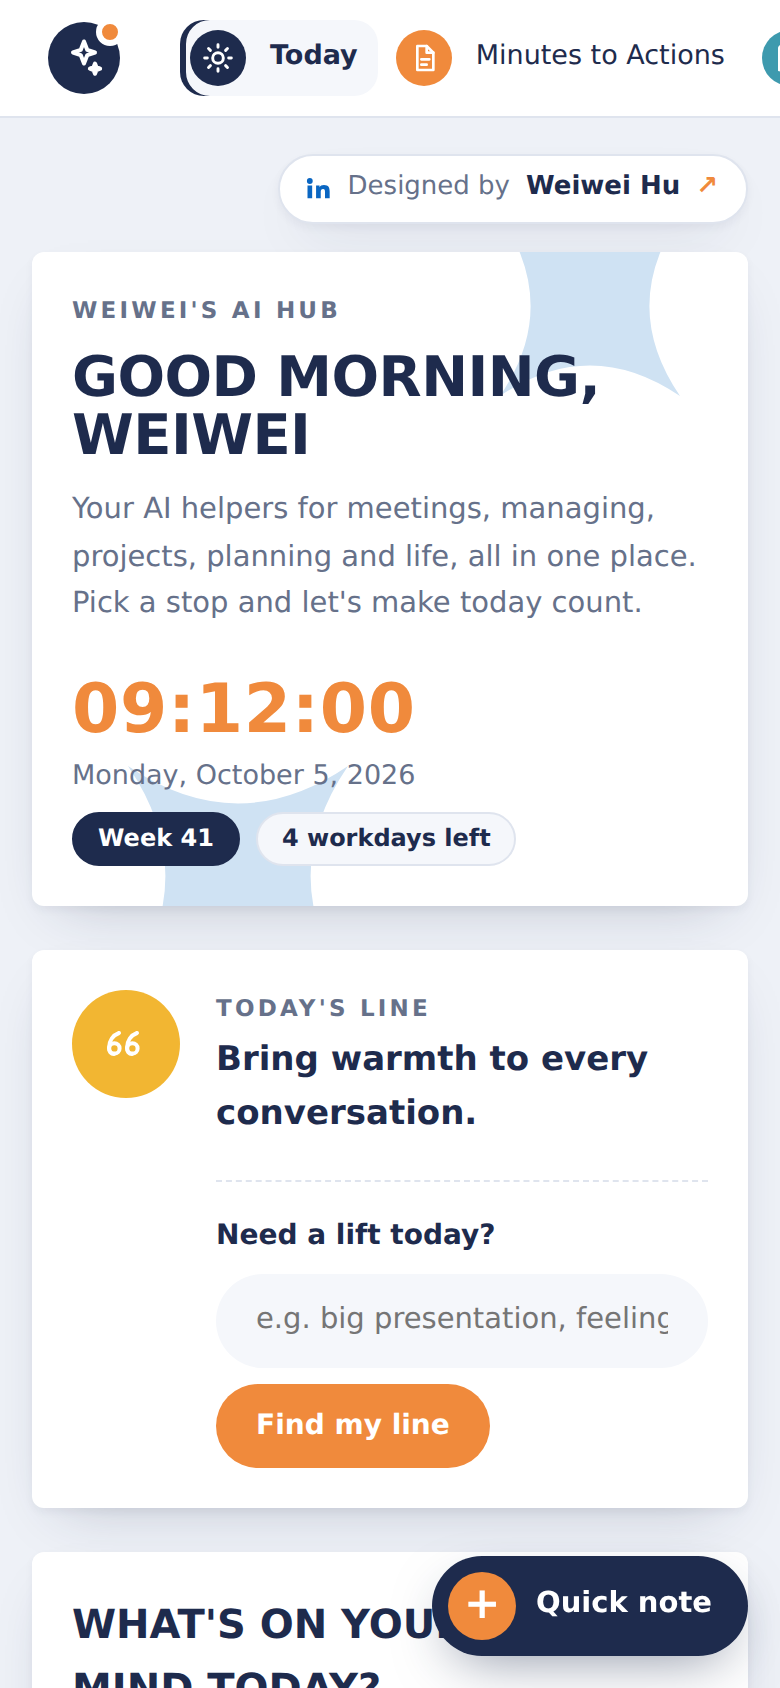
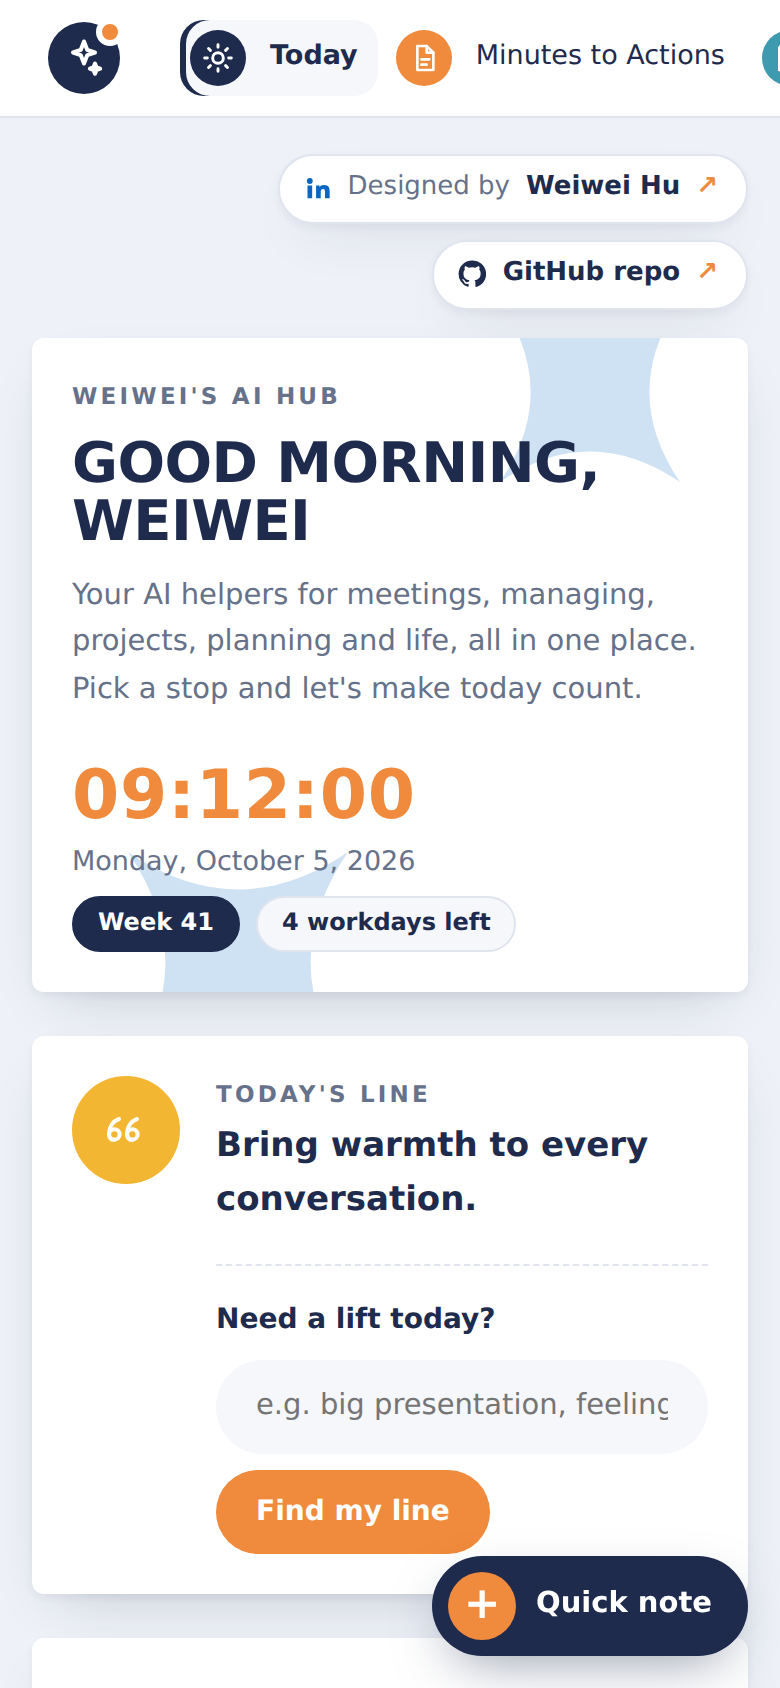
Add GitHub repo button beside the byline
Claude-Session: https://claude.ai/code/session_01JmyysjgEKDixUjq3TJ7y42

Changed region(s): [[0.0308, 0.1232, 0.9538, 0.7393], [0.0308, 0.7701, 0.9538, 1.0], [0.7385, 0.7701, 0.8615, 0.8626]]

diff --git a/index.html b/index.html
@@ -250,9 +250,10 @@ body.hasnotes .maincol { padding-bottom: 76px; }
 }
 .notetag { border: 0; background: none; padding: 0; font: inherit; font-size: 12px; font-weight: 600; color: var(--c); cursor: pointer; }
 .notetag:hover { text-decoration: underline; }
-.byline { display: flex; justify-content: flex-end; max-width: 1100px; box-sizing: border-box; padding: 18px clamp(16px, 4vw, 44px) 0; }
+.byline { display: flex; flex-wrap: wrap; gap: 8px; justify-content: flex-end; max-width: 1100px; box-sizing: border-box; padding: 18px clamp(16px, 4vw, 44px) 0; }
 .byline a { display: inline-flex; align-items: center; gap: 8px; text-decoration: none; color: var(--muted); font-size: 13px; background: var(--card); border: 1px solid var(--line); border-radius: 999px; padding: 6px 14px 6px 12px; box-shadow: var(--shadow); }
 .byline a svg { color: #0A66C2; }
+.byline a svg.gh { color: var(--navy); }
 .byline a b { color: var(--navy); font-weight: 700; }
 .byline a i { font-style: normal; color: var(--orange); font-weight: 700; }
 .byline a:hover { border-color: var(--orange); }
@@ -275,7 +276,7 @@ body.hasnotes .maincol { padding-bottom: 76px; }
   </aside>
 
   <div class="maincol">
-  <div class="byline"><a href="https://www.linkedin.com/in/weiweihu/" target="_blank" rel="noopener" title="Weiwei Hu on LinkedIn"><svg width="14" height="14" viewBox="0 0 24 24" aria-hidden="true" fill="currentColor"><path d="M4.98 3.5a2.5 2.5 0 1 1 0 5 2.5 2.5 0 0 1 0-5ZM3 9.75h4v11H3v-11Zm6.5 0h3.8v1.5h.06c.53-1 1.83-1.8 3.76-1.8 4 0 4.88 2.4 4.88 5.6v5.7h-4v-5.05c0-1.2-.02-2.75-1.7-2.75-1.7 0-1.95 1.3-1.95 2.66v5.14h-4v-11Z"/></svg>Designed by <b>Weiwei Hu</b><i aria-hidden="true">↗</i></a></div>
+  <div class="byline"><a href="https://www.linkedin.com/in/weiweihu/" target="_blank" rel="noopener" title="Weiwei Hu on LinkedIn"><svg width="14" height="14" viewBox="0 0 24 24" aria-hidden="true" fill="currentColor"><path d="M4.98 3.5a2.5 2.5 0 1 1 0 5 2.5 2.5 0 0 1 0-5ZM3 9.75h4v11H3v-11Zm6.5 0h3.8v1.5h.06c.53-1 1.83-1.8 3.76-1.8 4 0 4.88 2.4 4.88 5.6v5.7h-4v-5.05c0-1.2-.02-2.75-1.7-2.75-1.7 0-1.95 1.3-1.95 2.66v5.14h-4v-11Z"/></svg>Designed by <b>Weiwei Hu</b><i aria-hidden="true">↗</i></a><a href="https://github.com/wei-wei-hu/ai-hub" target="_blank" rel="noopener" title="Weiwei's AI Hub on GitHub"><svg class="gh" width="14" height="14" viewBox="0 0 24 24" aria-hidden="true" fill="currentColor"><path d="M12 .5a11.5 11.5 0 0 0-3.64 22.41c.58.1.79-.25.79-.56v-2c-3.2.7-3.88-1.37-3.88-1.37-.53-1.33-1.28-1.69-1.28-1.69-1.05-.71.08-.7.08-.7 1.16.08 1.77 1.19 1.77 1.19 1.03 1.77 2.7 1.26 3.36.96.1-.75.4-1.26.73-1.55-2.55-.29-5.24-1.28-5.24-5.68 0-1.26.45-2.28 1.19-3.09-.12-.29-.52-1.46.11-3.04 0 0 .97-.31 3.17 1.18a11 11 0 0 1 5.77 0c2.2-1.49 3.17-1.18 3.17-1.18.63 1.58.23 2.75.11 3.04.74.81 1.19 1.83 1.19 3.09 0 4.41-2.69 5.38-5.25 5.67.41.36.78 1.06.78 2.14v3.17c0 .31.21.67.8.56A11.5 11.5 0 0 0 12 .5Z"/></svg><b>GitHub repo</b><i aria-hidden="true">↗</i></a></div>
   <main class="main" id="main" aria-live="polite"></main>
     <footer class="sitefoot"><span>&copy; 2026 Weiwei Hu. All rights reserved.</span><a class="libtn" href="https://www.linkedin.com/in/weiweihu/" target="_blank" rel="noopener"><svg width="15" height="15" viewBox="0 0 24 24" aria-hidden="true" fill="#0A66C2"><path d="M4.98 3.5a2.5 2.5 0 1 1 0 5 2.5 2.5 0 0 1 0-5ZM3 9.75h4v11H3v-11Zm6.5 0h3.8v1.5h.06c.53-1 1.83-1.8 3.76-1.8 4 0 4.88 2.4 4.88 5.6v5.7h-4v-5.05c0-1.2-.02-2.75-1.7-2.75-1.7 0-1.95 1.3-1.95 2.66v5.14h-4v-11Z"/></svg>LinkedIn</a></footer>
   </div>
